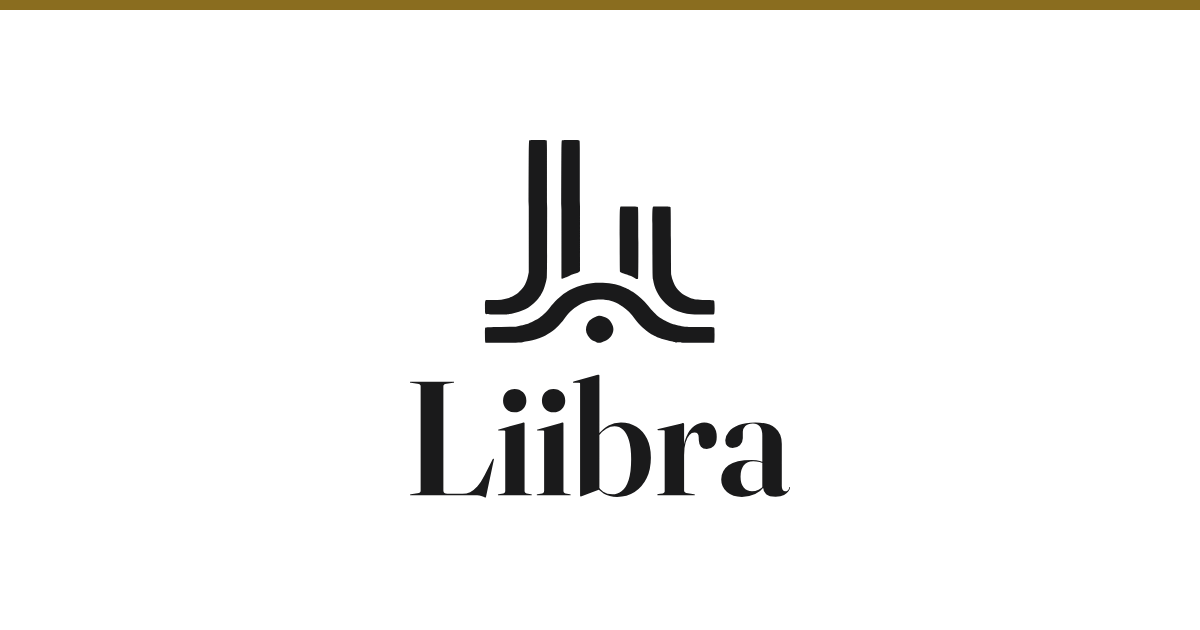
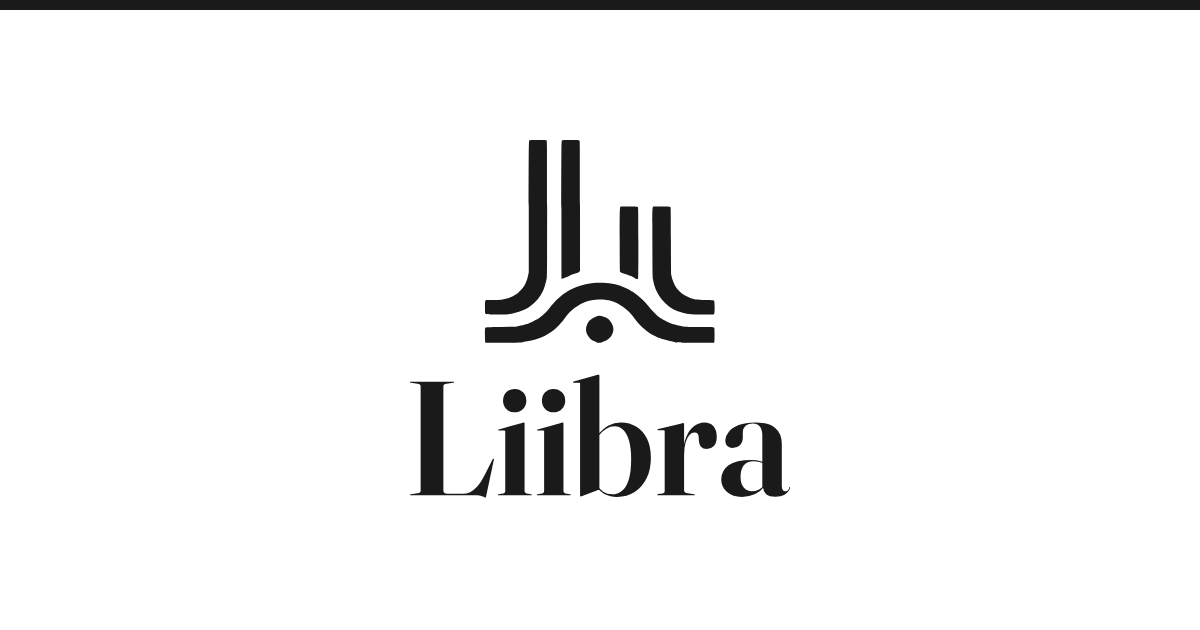
Go fully monochrome: remove blue and brass from the theme
- Drop the liibra-link, liibra-link-visited, and liibra-accent tokens;
  the palette is now ink, two grays, paper, and the warm surface
- Links are ink with an always-on underline (muted at rest, ink on
  hover) so clickability never depends on color; visited styling is
  removed
- Primary buttons and input focus borders switch from blue to ink;
  focus rings are ink
- The header's top rule and the social card's top rule switch from
  brass to ink (og-image.png regenerated)
- Update docs/BRAND.md to document the monochrome palette and link rules

Claude-Session: https://claude.ai/code/session_019m63wPq1XLHByMTAJQQezr

Changed region(s): [[0.0, 0.0, 1.0, 0.0302]]

diff --git a/src/routes/layout.css b/src/routes/layout.css
@@ -16,22 +16,18 @@
 }
 
 /* Design tokens — the Liibra visual identity (see docs/BRAND.md). A
-   typography-first, Cornell LII–inspired system: ink on paper, one working
-   blue for links, and a brass accent drawn from the scales in the mark.
-   Tailwind v4 generates utilities from these (font-serif, text-liibra-link,
-   border-liibra-rule, …). */
+   typography-first, monochrome system: ink on paper, nothing else. Links are
+   underlined rather than colored. Tailwind v4 generates utilities from these
+   (font-serif, text-liibra-ink, border-liibra-rule, …). */
 @theme {
 	--font-serif: 'Fraunces', Georgia, 'Times New Roman', serif;
 	--font-sans: ui-sans-serif, system-ui, -apple-system, 'Segoe UI', sans-serif;
 
-	--color-liibra-link: #1a5fb4;
-	--color-liibra-link-visited: #6a3fa0;
 	--color-liibra-ink: #1a1a1b;
 	--color-liibra-muted: #5a5a5a;
 	--color-liibra-rule: #e2e2e2;
 	--color-liibra-bg: #ffffff;
 	--color-liibra-surface: #f7f6f3;
-	--color-liibra-accent: #8a6d1f;
 }
 
 @layer base {
@@ -50,21 +46,20 @@
 		color: var(--color-liibra-ink);
 	}
 
+	/* Monochrome links: the underline, not a color, says "clickable". */
 	a {
-		color: var(--color-liibra-link);
-		text-decoration: none;
+		color: var(--color-liibra-ink);
+		text-decoration: underline;
+		text-decoration-color: var(--color-liibra-muted);
+		text-underline-offset: 3px;
 	}
 
 	a:hover {
-		text-decoration: underline;
-	}
-
-	a:visited {
-		color: var(--color-liibra-link-visited);
+		text-decoration-color: var(--color-liibra-ink);
 	}
 
 	:focus-visible {
-		outline: 2px solid var(--color-liibra-link);
+		outline: 2px solid var(--color-liibra-ink);
 		outline-offset: 2px;
 	}
 }

diff --git a/src/routes/proposicoes/+page.svelte b/src/routes/proposicoes/+page.svelte
@@ -63,7 +63,7 @@
 			placeholder={m.prop_search_placeholder}
 			autocomplete="off"
 			class="mt-1 w-full rounded-md border border-liibra-rule bg-white px-3 py-1.5 text-sm
-				text-liibra-ink placeholder:text-liibra-muted focus:border-liibra-link focus:outline-none"
+				text-liibra-ink placeholder:text-liibra-muted focus:border-liibra-ink focus:outline-none"
 		/>
 	</div>
 	<div>
@@ -72,7 +72,7 @@
 			id="tipo"
 			name="tipo"
 			class="mt-1 rounded-md border border-liibra-rule bg-white px-3 py-1.5 text-sm
-				focus:border-liibra-link focus:outline-none"
+				focus:border-liibra-ink focus:outline-none"
 		>
 			<option value="" selected={data.filters.siglaTipo === ''}>{m.prop_filter_all_types}</option>
 			{#each types as type (type)}
@@ -91,12 +91,12 @@
 			max="2100"
 			value={data.filters.ano}
 			class="mt-1 w-24 rounded-md border border-liibra-rule bg-white px-3 py-1.5 text-sm
-				focus:border-liibra-link focus:outline-none"
+				focus:border-liibra-ink focus:outline-none"
 		/>
 	</div>
 	<button
 		type="submit"
-		class="rounded-md bg-liibra-link px-4 py-1.5 text-sm font-medium text-white hover:opacity-90"
+		class="rounded-md bg-liibra-ink px-4 py-1.5 text-sm font-medium text-white hover:opacity-90"
 	>
 		{m.prop_filter_apply}
 	</button>

diff --git a/src/lib/components/SearchBox.svelte b/src/lib/components/SearchBox.svelte
@@ -15,12 +15,12 @@
 		placeholder={m.search_placeholder}
 		autocomplete="off"
 		class="min-w-0 flex-1 rounded-md border border-liibra-rule bg-white px-3 text-liibra-ink
-			placeholder:text-liibra-muted focus:border-liibra-link focus:outline-none
+			placeholder:text-liibra-muted focus:border-liibra-ink focus:outline-none
 			{variant === 'hero' ? 'py-3 text-lg' : 'py-1.5 text-sm'}"
 	/>
 	<button
 		type="submit"
-		class="shrink-0 rounded-md bg-liibra-link px-4 font-medium text-white hover:opacity-90
+		class="shrink-0 rounded-md bg-liibra-ink px-4 font-medium text-white hover:opacity-90
 			{variant === 'hero' ? 'py-3 text-base' : 'py-1.5 text-sm'}"
 	>
 		{m.search_submit}

diff --git a/src/lib/components/Header.svelte b/src/lib/components/Header.svelte
@@ -14,7 +14,7 @@
 	}: { m: Messages; locale: Locale; redirectTo: string; query?: string } = $props();
 </script>
 
-<header class="border-b border-liibra-rule border-t-4 border-t-liibra-accent bg-white">
+<header class="border-b border-liibra-rule border-t-4 border-t-liibra-ink bg-white">
 	<div class="mx-auto flex max-w-5xl flex-wrap items-center gap-x-6 gap-y-3 px-4 py-3">
 		<a href={resolve('/')} class="flex items-center gap-2 font-serif text-2xl font-semibold tracking-tight text-liibra-ink no-underline hover:no-underline">
 			<img src={liibraMark} alt="" class="h-8 w-auto" />

diff --git a/src/lib/components/SearchFilters.svelte b/src/lib/components/SearchFilters.svelte
@@ -91,7 +91,7 @@
 	<div class="mt-5 flex items-center gap-3">
 		<button
 			type="submit"
-			class="rounded-md bg-liibra-link px-4 py-1.5 font-medium text-white hover:opacity-90"
+			class="rounded-md bg-liibra-ink px-4 py-1.5 font-medium text-white hover:opacity-90"
 		>
 			{m.filter_apply}
 		</button>

diff --git a/docs/BRAND.md b/docs/BRAND.md
@@ -1,8 +1,9 @@
 # Liibra visual identity
 
-Liibra's identity is typography-first and library-like: ink on paper, one
-working blue, and a brass accent drawn from the scales in the mark. It should
-feel like a trustworthy public reading room, not a startup.
+Liibra's identity is typography-first, monochrome, and library-like: ink on
+paper, nothing else. Hierarchy comes from type, spacing, and hairline rules —
+never from color. It should feel like a trustworthy public reading room, not
+a startup.
 
 ## Logo
 
@@ -23,7 +24,7 @@ pivot dot doubles as the tittle of an *i*.
 | Touch icon | `static/apple-touch-icon.png` | iOS/Android home screens (180×180) |
 
 The PNGs are rendered from the SVG lockups: the social card is the vertical
-lockup centered on `liibra-bg` with a 10 px brass rule across the top; the
+lockup centered on `liibra-bg` with a 10 px ink rule across the top; the
 touch icon is the mark centered on `liibra-surface`. Regenerate them from the
 SVGs if the logo changes.
 
@@ -70,25 +71,28 @@ covers all Portuguese diacritics. Georgia is the fallback while it loads
 Defined as Tailwind v4 `@theme` tokens in `src/routes/layout.css`; Tailwind
 generates the utilities (`text-liibra-ink`, `border-liibra-rule`, …).
 
+The palette is monochrome — ink on paper, with two grays doing all the
+supporting work.
+
 | Token | Hex | Role |
 | --- | --- | --- |
-| `liibra-ink` | `#1a1a1b` | Text, logo fill |
-| `liibra-muted` | `#5a5a5a` | Secondary text, metadata |
+| `liibra-ink` | `#1a1a1b` | Text, links, primary buttons, logo fill, the header's top rule |
+| `liibra-muted` | `#5a5a5a` | Secondary text, metadata, resting link underlines |
 | `liibra-bg` | `#ffffff` | Page background |
 | `liibra-surface` | `#f7f6f3` | Warm paper — footer, panels, cards |
 | `liibra-rule` | `#e2e2e2` | Hairline borders and dividers |
-| `liibra-link` | `#1a5fb4` | Links, focus rings |
-| `liibra-link-visited` | `#6a3fa0` | Visited links |
-| `liibra-accent` | `#8a6d1f` | Brass — the header's top rule; small decorative moments only |
 
 Rules of thumb:
 
-- Blue is functional (it means "clickable"), never decorative. Don't use it
-  for headings or emphasis.
-- Brass is decorative, never functional — a rule, a marker, a detail. Use it
-  sparingly (one moment per view) and don't set body text in it.
-- Ink on `liibra-bg`/`liibra-surface` and `liibra-link` on white both meet
-  WCAG AA for normal text.
+- No hue anywhere. If something needs emphasis, use weight, size, the serif,
+  or space — not color.
+- Links are ink with an underline (muted at rest, ink on hover). The
+  underline, not a color, is what says "clickable", so never remove it from
+  a text link.
+- Primary actions are solid ink buttons with white text; secondary actions
+  are hairline-bordered.
+- Ink and muted on `liibra-bg`/`liibra-surface` all meet WCAG AA for normal
+  text; focus rings are 2 px ink.
 
 ## Voice cues for visuals
 
